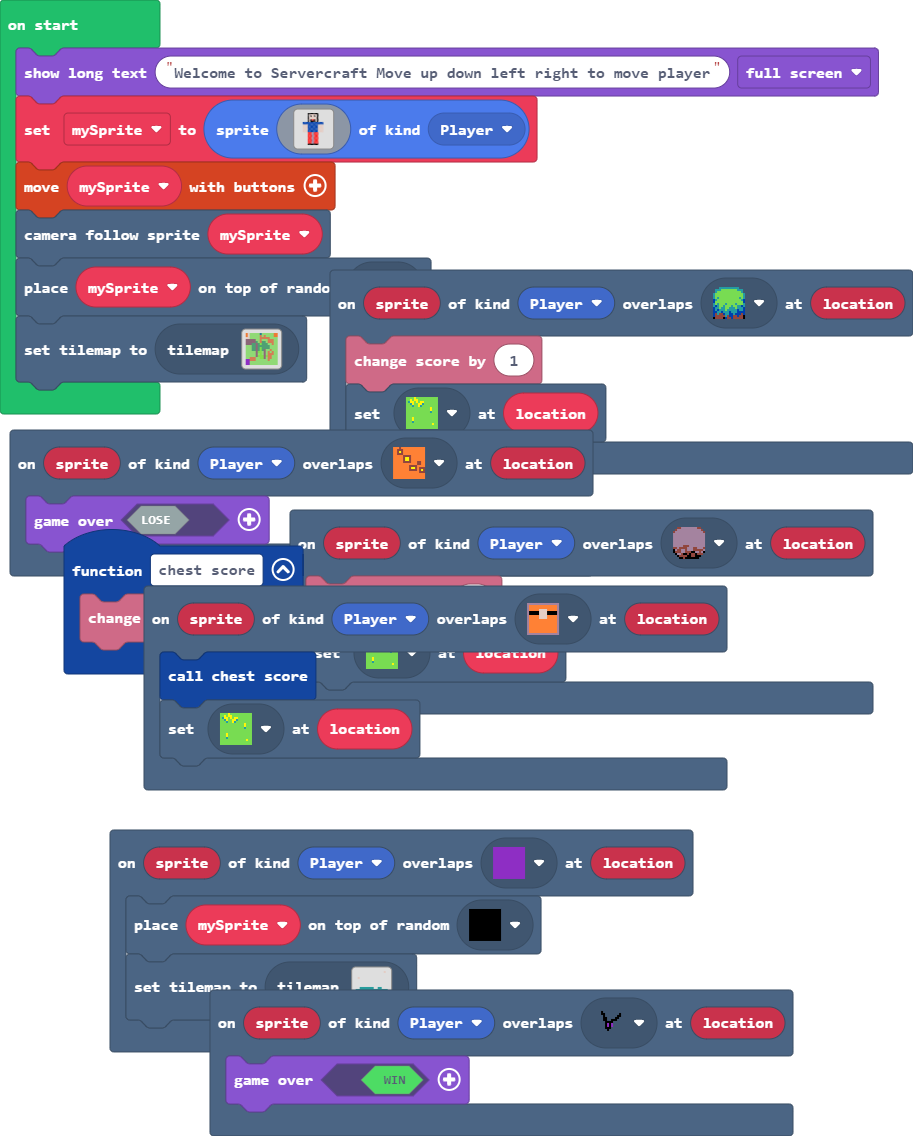
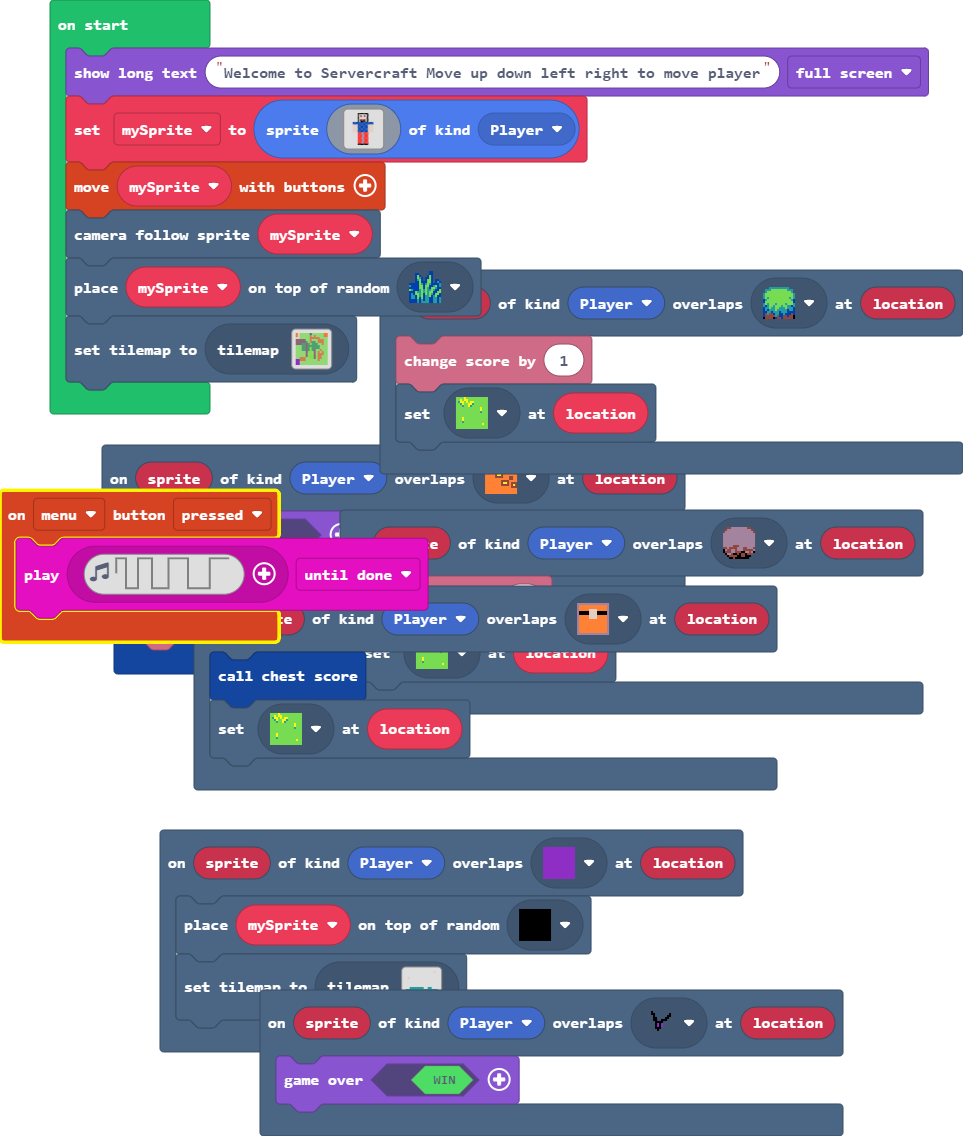
Update main.blocks, main.ts

diff --git a/main.ts b/main.ts
@@ -19,6 +19,9 @@ scene.onOverlapTile(SpriteKind.Player, sprites.builtin.forestTiles8, function (s
     info.changeScoreBy(1)
     tiles.setTileAt(location, sprites.castle.tileGrass1)
 })
+controller.menu.onEvent(ControllerButtonEvent.Pressed, function () {
+    music.play(music.createSoundEffect(WaveShape.Square, 4020, 1044, 255, 255, 500, SoundExpressionEffect.Vibrato, InterpolationCurve.Curve), music.PlaybackMode.UntilDone)
+})
 scene.onOverlapTile(SpriteKind.Player, sprites.swamp.swampTile9, function (sprite, location) {
     tiles.placeOnRandomTile(mySprite, assets.tile`myTile`)
     tiles.setCurrentTilemap(tilemap`level`)
